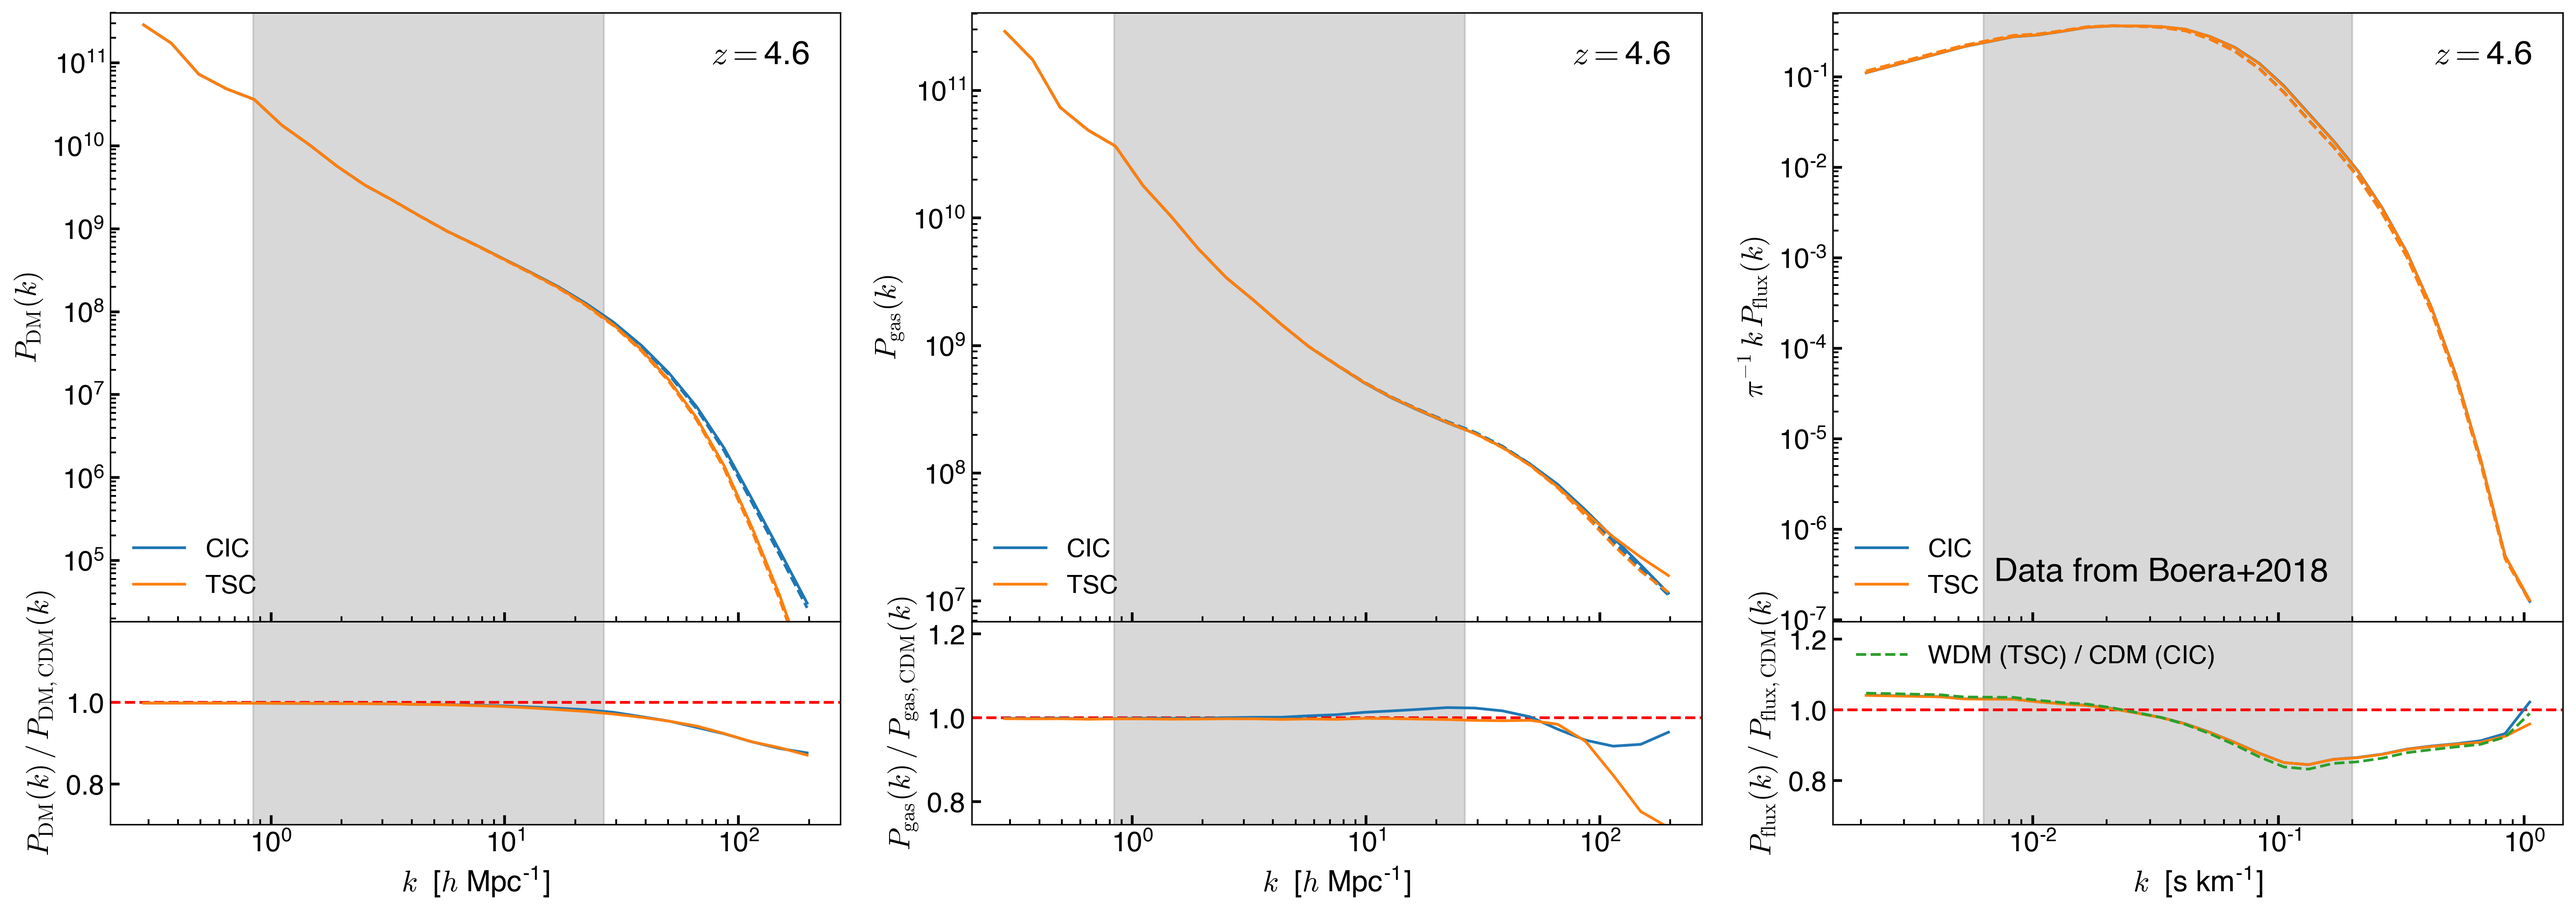
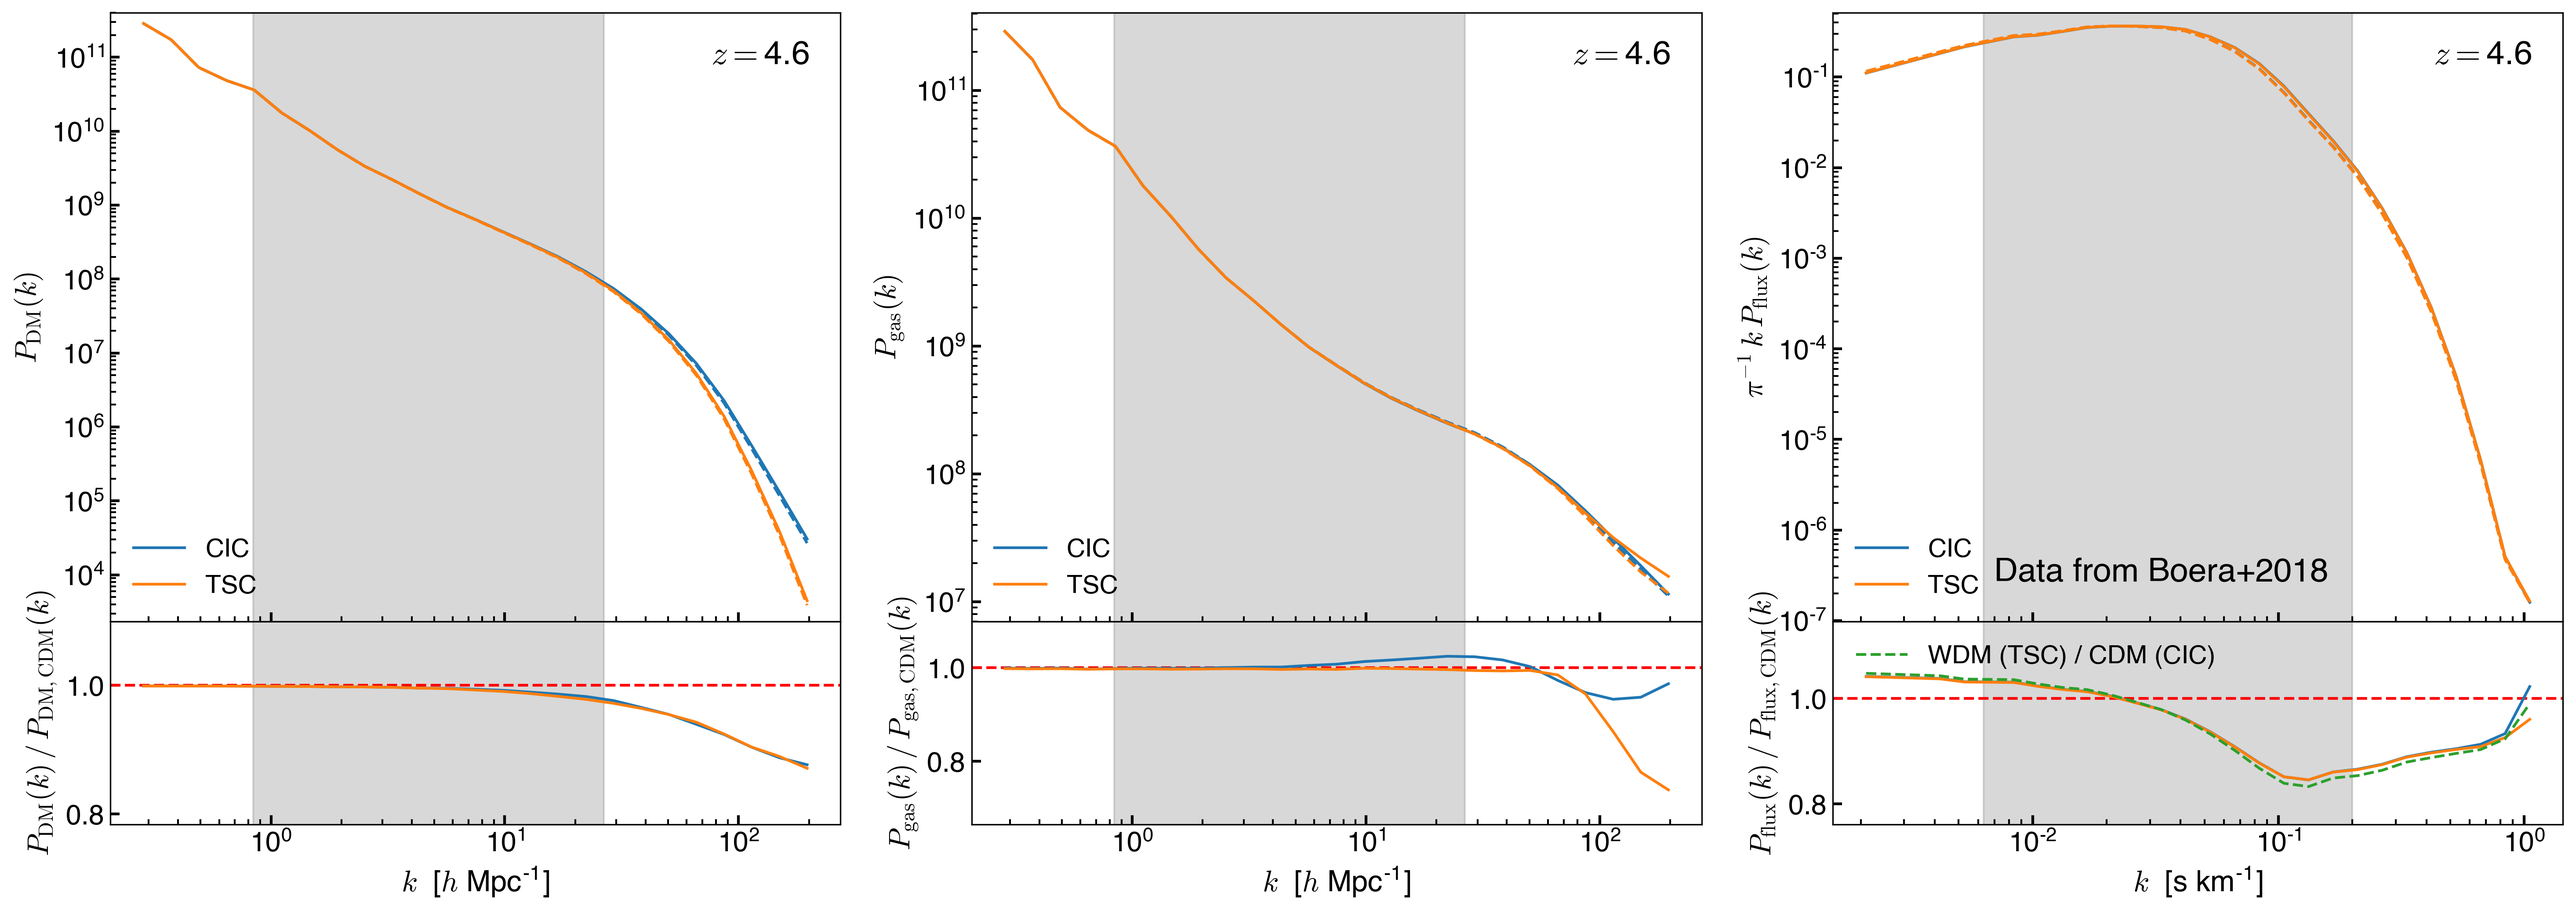
updated post

diff --git a/astro/_posts/2022-05-24-tsc_simulations.md b/astro/_posts/2022-05-24-tsc_simulations.md
@@ -38,5 +38,5 @@ from the observations
 <img src="{{ site.url }}assets/images/wdm_pk_tsc/flux_ps_2.png">
 
 
-**Despite some differences in the gas matter power spectrum between CIC and TSC, the flux power spectrum shows small differences on the scales probed by the observations**
+**Despite some differences in the gas matter power spectrum between CIC and TSC, the flux power spectrum shows only small differences on the scales probed by the observations and the flattening for $$k>0.1 \mathrm{s / km}$$ is still present even when comparing the TSC WDM simulation to the CIC CDM simulation. This shows that the flattening at $$k>0.1 \mathrm{s / km}$$ might not be caused by the excess power due to the CIC deposition.**
    
